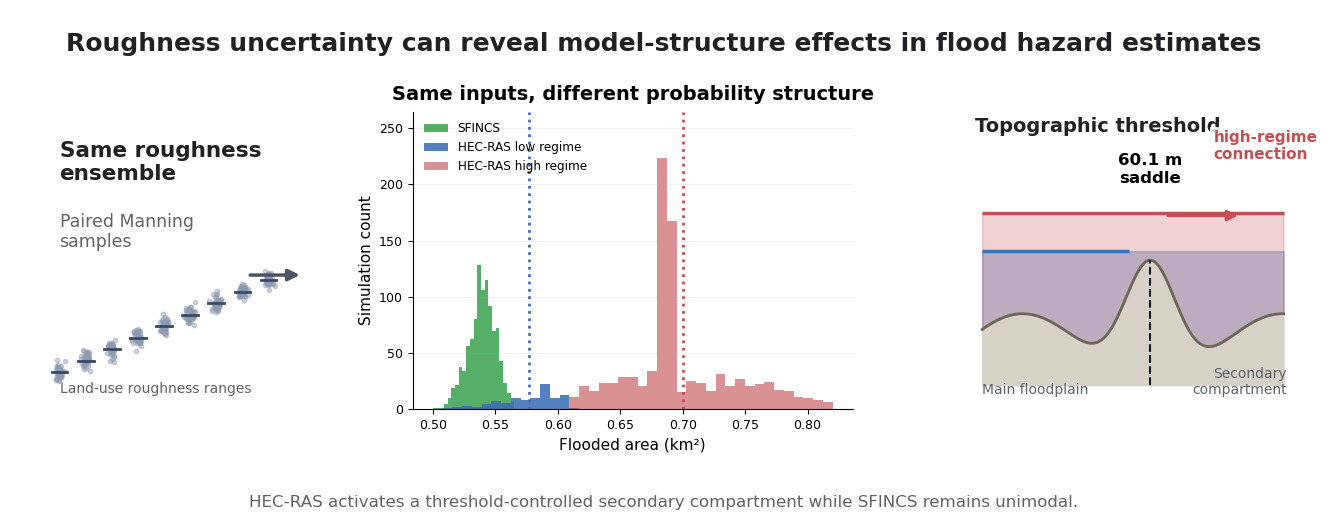
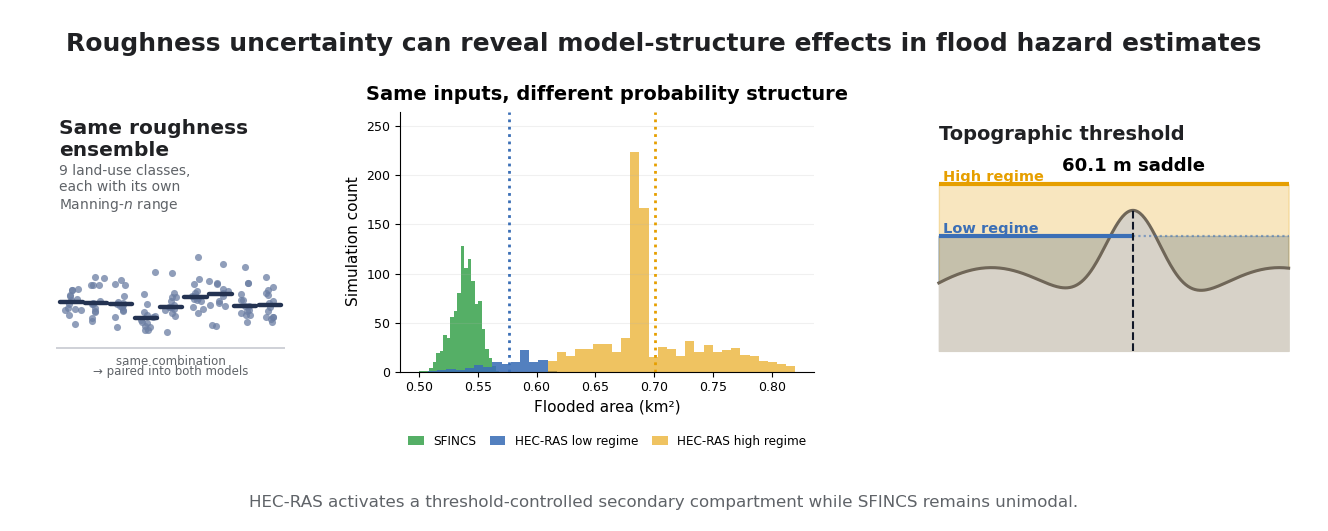
Corrige afiliaciones, DOI de Zenodo, enlaces ORCID y rediseña el graphical abstract
- Afiliaciones de autores: Salvador y Manuel del Jesus pasan a Department of
  Water and Environmental Sciences and Techniques, University of Cantabria;
  Álvaro Galán a ETSI Caminos, Canales y Puertos / Department of Civil and
  Building Engineering, UCLM. Email de Salvador actualizado.
- references.bib y zenodo_upload/README.md: citan ahora el DOI concepto de
  Zenodo (20672450, siempre resuelve a la última versión) tras publicar una
  nueva versión del depósito con el README corregido (ya no dice "private
  link... upon acceptance": el depósito está abierto) y las afiliaciones
  actualizadas en los metadatos de creators.
- Corrige los hipervínculos ORCID: \ead[orcid]{} generaba un enlace GoToR
  roto (abre "<id>.pdf" como archivo remoto) en vez de un enlace URI a
  orcid.org, por un problema de orden de inicialización entre el mecanismo
  diferido de cas-common.sty y la detección de esquema de hyperref en
  \href; solucionado usando \hyper@linkurl.
- Rediseña graphical_abstract.png/tif: panel 1 con datos reales de Manning
  por clase (antes decorativo), panel 3 simplificado y sin solapes, paleta
  accesible para daltonismo rojo-verde (verificado con simulación de
  deuteranopia/protanopia), leyenda del histograma reubicada.

diff --git a/papers/besaya_manning_sensitivity/make_graphical_abstract.py b/papers/besaya_manning_sensitivity/make_graphical_abstract.py
@@ -16,12 +16,13 @@ from sklearn.mixture import GaussianMixture
 
 ROOT = Path(__file__).resolve().parent
 DATA_CSV = ROOT / "zenodo_upload" / "data" / "comparison_clean_995.csv"
+MANNING_CSV = ROOT / "zenodo_upload" / "data" / "monte_carlo_combinations.csv"
 OUT = ROOT / "graphical_abstract.png"
 OUT_TIFF = ROOT / "graphical_abstract.tif"
 
 C_SFINCS = "#2f9e44"
 C_LOW = "#3b6fb6"
-C_HIGH = "#c44e52"
+C_HIGH = "#E69F00"
 C_TEXT = "#202124"
 C_MUTED = "#5f6368"
 
@@ -49,42 +50,52 @@ def arrow(ax, xy0, xy1, color="#6b7280", lw=2.0, scale=17):
     )
 
 
-def draw_input_panel(ax):
+def draw_input_panel(ax, manning):
     ax.set_axis_off()
     ax.set_xlim(0, 1)
     ax.set_ylim(0, 1)
 
     ax.text(
         0.05,
-        0.90,
+        0.97,
         "Same roughness\nensemble",
         ha="left",
         va="top",
-        fontsize=15.5,
+        fontsize=14.5,
         fontweight="bold",
         color=C_TEXT,
     )
     ax.text(
         0.05,
-        0.66,
-        "Paired Manning\nsamples",
+        0.80,
+        "9 land-use classes,\neach with its own\nManning-$n$ range",
         ha="left",
         va="top",
-        fontsize=12.5,
+        fontsize=10,
         color=C_MUTED,
     )
 
+    classes = list(manning.columns)
+    n = len(classes)
     rng = np.random.default_rng(9)
-    classes = np.arange(9)
-    base = np.linspace(0.02, 0.16, 9)
-    for i, b in enumerate(base):
-        y = b + rng.normal(0, 0.007, 40)
-        x = rng.normal(classes[i], 0.09, 40)
-        ax.scatter(x / 10 + 0.05, y * 2.2 + 0.08, s=10, color="#8d99ae", alpha=0.42)
-        ax.plot([i / 10 + 0.02, i / 10 + 0.08], [b * 2.2 + 0.08] * 2, color="#394867", lw=2)
+    plot_bottom, plot_top = 0.12, 0.44
+    xs = np.linspace(0.10, 0.90, n)
 
-    ax.text(0.05, 0.055, "Land-use roughness ranges", fontsize=10, color=C_MUTED)
-    arrow(ax, (0.78, 0.45), (0.97, 0.45), color="#4b5563", lw=2.5)
+    ax.hlines(plot_bottom - 0.03, 0.04, 0.96, color="#c7cad1", lw=1.2)
+
+    for xi, cls in zip(xs, classes):
+        vals = manning[cls].to_numpy()
+        sample = rng.choice(vals, size=min(14, len(vals)), replace=False)
+        norm = (sample - vals.min()) / (vals.max() - vals.min() + 1e-12)
+        y = plot_bottom + norm * (plot_top - plot_bottom)
+        jitter = rng.normal(0, 0.016, size=len(sample))
+        ax.scatter(xi + jitter, y, s=26, color="#6b7ea3", alpha=0.75, linewidths=0, zorder=2)
+        med = plot_bottom + np.median(norm) * (plot_top - plot_bottom)
+        ax.plot([xi - 0.045, xi + 0.045], [med, med], color="#243352", lw=3.2,
+                 solid_capstyle="round", zorder=3)
+
+    ax.text(0.5, 0.065, "same combination", fontsize=8.5, color=C_MUTED, ha="center", va="top")
+    ax.text(0.5, 0.025, "→ paired into both models", fontsize=8.5, color=C_MUTED, ha="center", va="top")
 
 
 def draw_distribution_panel(ax, data, labels):
@@ -123,7 +134,15 @@ def draw_distribution_panel(ax, data, labels):
     ax.tick_params(labelsize=9)
     ax.grid(True, alpha=0.18, axis="y")
     ax.spines[["top", "right"]].set_visible(False)
-    ax.legend(loc="upper left", fontsize=8.7, frameon=False)
+    ax.legend(
+        loc="upper center",
+        bbox_to_anchor=(0.5, -0.20),
+        ncol=3,
+        fontsize=8.7,
+        frameon=False,
+        handlelength=1.3,
+        columnspacing=1.1,
+    )
 
 
 def draw_threshold_panel(ax):
@@ -131,58 +150,53 @@ def draw_threshold_panel(ax):
     ax.set_xlim(0, 1)
     ax.set_ylim(0, 1)
 
-    x = np.linspace(0.07, 0.93, 300)
-    terrain = 0.20 + 0.12 * np.sin(2.7 * np.pi * x) + 0.42 * np.exp(-((x - 0.55) / 0.105) ** 2)
-    water_low = 0.53
-    water_high = 0.66
+    ax.text(0.05, 0.95, "Topographic threshold", fontsize=14, fontweight="bold", color=C_TEXT, va="top")
 
-    ax.fill_between(x, 0.08, terrain, color="#d7d2c8", alpha=1.0)
-    ax.plot(x, terrain, color="#6f6658", lw=2.0)
+    x = np.linspace(0.05, 0.95, 300)
+    terrain = 0.30 + 0.10 * np.sin(2.7 * np.pi * x) + 0.42 * np.exp(-((x - 0.55) / 0.105) ** 2)
+    floor = 0.08
+    water_low = 0.52
+    water_high = 0.72
+
+    ax.fill_between(x, floor, terrain, color="#d7d2c8", alpha=1.0)
+    ax.plot(x, terrain, color="#6f6658", lw=2.2)
     ax.fill_between(x, terrain, water_low, where=water_low > terrain, color=C_LOW, alpha=0.35)
     ax.fill_between(x, terrain, water_high, where=water_high > terrain, color=C_HIGH, alpha=0.25)
-    ax.hlines(water_low, 0.07, 0.49, colors=C_LOW, linestyles="-", lw=2.5)
-    ax.hlines(water_high, 0.07, 0.93, colors=C_HIGH, linestyles="-", lw=2.5)
-    ax.vlines(0.55, 0.08, terrain[np.argmin(np.abs(x - 0.55))], color="#111827", linestyles="--", lw=1.5)
+    ax.hlines(water_low, 0.05, 0.55, colors=C_LOW, linestyles="-", lw=3.0)
+    ax.hlines(water_low, 0.55, 0.95, colors=C_LOW, linestyles=(0, (1, 1.4)), lw=1.6, alpha=0.55)
+    ax.hlines(water_high, 0.05, 0.95, colors=C_HIGH, linestyles="-", lw=3.0)
+    ax.vlines(0.55, floor, terrain[np.argmin(np.abs(x - 0.55))], color="#111827", linestyles="--", lw=1.5)
 
-    ax.text(0.05, 0.93, "Topographic threshold", fontsize=14, fontweight="bold", color=C_TEXT)
-    label_box = {"facecolor": "white", "edgecolor": "none", "alpha": 0.88, "pad": 2.2}
+    label_box = {"facecolor": "white", "edgecolor": "none", "alpha": 0.92, "pad": 2.5}
     ax.text(
         0.55,
-        0.75,
-        "60.1 m\nsaddle",
+        0.755,
+        "60.1 m saddle",
         ha="center",
         va="bottom",
-        fontsize=12,
+        fontsize=13,
         fontweight="bold",
         bbox=label_box,
     )
-    ax.text(
-        0.73,
-        0.84,
-        "high-regime\nconnection",
-        color=C_HIGH,
-        fontsize=11,
-        fontweight="bold",
-        ha="left",
-        bbox=label_box,
-    )
-    ax.text(0.07, 0.05, "Main floodplain", fontsize=10, color=C_MUTED)
-    ax.text(0.94, 0.05, "Secondary\ncompartment", fontsize=10, color=C_MUTED, ha="right")
-    arrow(ax, (0.60, 0.65), (0.80, 0.65), color=C_HIGH, lw=2.2, scale=15)
+    ax.text(0.06, water_low, "Low regime", color=C_LOW, fontsize=10.5, fontweight="bold",
+            ha="left", va="bottom")
+    ax.text(0.06, water_high, "High regime", color=C_HIGH, fontsize=10.5, fontweight="bold",
+            ha="left", va="bottom")
 
 
 def main():
     data = pd.read_csv(DATA_CSV, index_col=0)
     labels = classify_regimes(data)
+    manning = pd.read_csv(MANNING_CSV)
 
     fig = plt.figure(figsize=(13.28, 5.31), dpi=100, facecolor="white")
     gs = fig.add_gridspec(
         1,
         3,
-        width_ratios=[0.82, 1.38, 1.10],
+        width_ratios=[0.78, 1.30, 1.22],
         left=0.035,
         right=0.985,
-        bottom=0.23,
+        bottom=0.30,
         top=0.79,
         wspace=0.30,
     )
@@ -191,7 +205,7 @@ def main():
     ax1 = fig.add_subplot(gs[0, 1])
     ax2 = fig.add_subplot(gs[0, 2])
 
-    draw_input_panel(ax0)
+    draw_input_panel(ax0, manning)
     draw_distribution_panel(ax1, data, labels)
     draw_threshold_panel(ax2)
 

diff --git a/papers/besaya_manning_sensitivity/main_AG.tex b/papers/besaya_manning_sensitivity/main_AG.tex
@@ -40,6 +40,26 @@
     \group_end:
   }
 }
+% Patch: \ead[orcid]{ID} is rendered via \urlauthor, which wraps the bare
+% ORCID id in \url{...} -- producing a hyperlink that points to the literal
+% id (e.g. "0000-0001-7439-1743") instead of https://orcid.org/<id>. A plain
+% \href here mis-resolves to a GoToR "open remote file <url>.pdf" action
+% instead of a URI action, because \urlauthor's call is deferred through the
+% .aux file (like a citation) and replayed before hyperref's scheme-detection
+% for \href is fully set up. \hyper@linkurl always treats its target as a
+% URL (no file/URL ambiguity), so it is unaffected by that timing issue.
+\makeatletter
+\RenewDocumentCommand \urlauthor { m m }
+{
+  \int_gincr:N \g_uad_int
+  \seq_gput_right:Nn \g_stm_uad_seq
+    {
+      \hyper@linkurl {#1} {https://orcid.org/#1}
+      \parsename {#2}
+      \space (\eadauthor)
+    }
+}
+\makeatother
 \ExplSyntaxOff
 
 \linenumbers
@@ -64,34 +84,28 @@
 
 \author[1]{Salvador Navas}
 \cormark[1]
-\ead{[email redacted]}
+\ead{[email redacted]}
 \ead[orcid]{0000-0001-7439-1743}
 \credit{Conceptualization, Methodology, Software, Data curation, Formal analysis, Visualization, Writing -- original draft, Writing -- review \& editing}
 
-\affiliation[1]{organization={HidraLab},
-                addressline={Avda. Camilo Jos\'e Cela s/n},
-                city={Ciudad Real},
-                postcode={13005},
+% ROR Universidad de Cantabria: https://ror.org/046ffzj20
+\affiliation[1]{organization={Department of Water and Environmental Sciences and Techniques, University of Cantabria},
+                city={Santander},
                 country={Spain}}
 
 \author[2]{{\'A}lvaro Gal\'an}
 \ead[orcid]{0000-0003-2966-3089}
 \credit{Conceptualization, Writing -- review \& editing}
 
-\affiliation[2]{organization={Escuela T\'ecnica Superior de Ingenier\'ia de Caminos, Canales y Puertos, Universidad de Castilla-La Mancha},
+\affiliation[2]{organization={ETSI Caminos, Canales y Puertos, Department of Civil and Building Engineering, Universidad de Castilla-La Mancha},
                 addressline={Avda. Camilo Jos\'e Cela s/n},
                 city={Ciudad Real},
-                postcode={13005},
+                postcode={13071},
                 country={Spain}}
 
-\author[3]{Manuel {del Jesus}}
+\author[1]{Manuel {del Jesus}}
 \ead[orcid]{0000-0003-0703-8960}
 \credit{Resources, Supervision, Funding acquisition, Writing -- review \& editing}
-
-% ROR Universidad de Cantabria: https://ror.org/046ffzj20
-\affiliation[3]{organization={Departamento de Ciencias y T\'ecnicas del Agua y del Medio Ambiente, Universidad de Cantabria},
-                city={Santander},
-                country={Spain}}
 
 \cortext[1]{Corresponding author}
 
@@ -667,8 +681,8 @@ pipeline.
 \smallskip
 \begin{tabular}{@{}p{4.5cm}p{9cm}@{}}
 Name:                  & \texttt{pyhydra} \\
-Developer:             & Salvador Navas, HidraLab \\
-Contact:               & \texttt{[email redacted]} \\
+Developer:             & Salvador Navas, University of Cantabria \\
+Contact:               & \texttt{[email redacted]} \\
 Year first available:  & 2026 \\
 Version used:          & 0.1.0 (commit \texttt{9f33b9e}) \\
 Hardware required:     & Standard workstation ($\geq$8\,GB RAM) \\
@@ -678,10 +692,8 @@ Program language:      & Python \\
 Program size:          & $\sim$500\,KB \\
 Availability and cost: & Free and open source (MIT License) \\
 Repository:            & \url{https://github.com/navass11/pyhydra} \\
-Persistent archive:    & A Zenodo archive of version 0.1.0 is available for
-                         peer review via a private link (DOI reserved;
-                         \citealp{navas2026zenodo}); public release upon
-                         acceptance. \\
+Persistent archive:    & A Zenodo archive of version 0.1.0 is openly available
+                         at \citealp{navas2026zenodo}. \\
 \end{tabular}
 
 \smallskip
@@ -715,14 +727,13 @@ also included in the archive under \texttt{simulations/HEC-RAS/} and
 \smallskip
 \begin{tabular}{@{}p{4.5cm}p{9cm}@{}}
 Name:                  & Besaya River Manning--flood ensemble statistics \\
-Developer:             & Salvador Navas, HidraLab \\
-Contact:               & \texttt{[email redacted]} \\
+Developer:             & Salvador Navas, University of Cantabria \\
+Contact:               & \texttt{[email redacted]} \\
 Form of repository:    & Zenodo (online database) \\
 Contents:              & Manning roughness coefficients, combination matrices,
                          flood simulation output statistics \\
-Availability and cost: & Free; available to reviewers via a private Zenodo link
-                         (DOI reserved; \citealp{navas2026zenodo}); publicly
-                         available upon acceptance \\
+Availability and cost: & Free; openly available on Zenodo
+                         (\citealp{navas2026zenodo}) \\
 \end{tabular}
 
 \section*{Declaration of generative AI and AI-assisted technologies

diff --git a/papers/besaya_manning_sensitivity/zenodo_upload/README.md b/papers/besaya_manning_sensitivity/zenodo_upload/README.md
@@ -2,7 +2,7 @@
 
 **Authors:** Salvador Navas, Álvaro Galán, Manuel del Jesus  
 **Journal:** Environmental Modelling & Software (under review)  
-**DOI (this dataset):** https://doi.org/10.5281/zenodo.20672451 *(reserved — restricted access during peer review; will be made public upon acceptance)*  
+**DOI (this dataset):** https://doi.org/10.5281/zenodo.20672450 *(concept DOI, always resolves to the latest version; openly available)*  
 **Code repository:** https://github.com/navass11/pyhydra
 
 ---
@@ -204,7 +204,7 @@ If you use this dataset, please cite:
 > Navas, S., Galán, Á., & del Jesus, M. (2026). From roughness uncertainty to
 > model-structure effects in 2D flood inundation models: a Monte Carlo comparison
 > of SFINCS and HEC-RAS. *Environmental Modelling & Software* (under review).
-> Dataset: Zenodo. https://doi.org/10.5281/zenodo.20672451
+> Dataset: Zenodo. https://doi.org/10.5281/zenodo.20672450
 
 ---
 